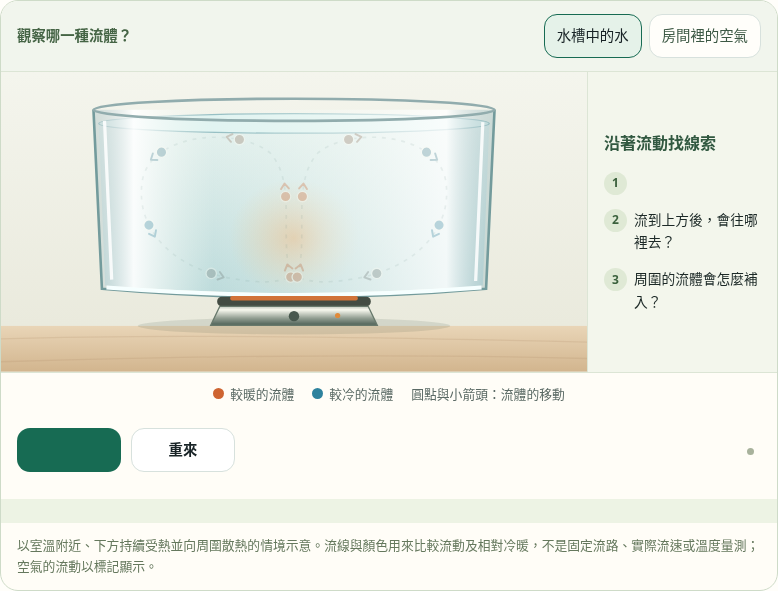
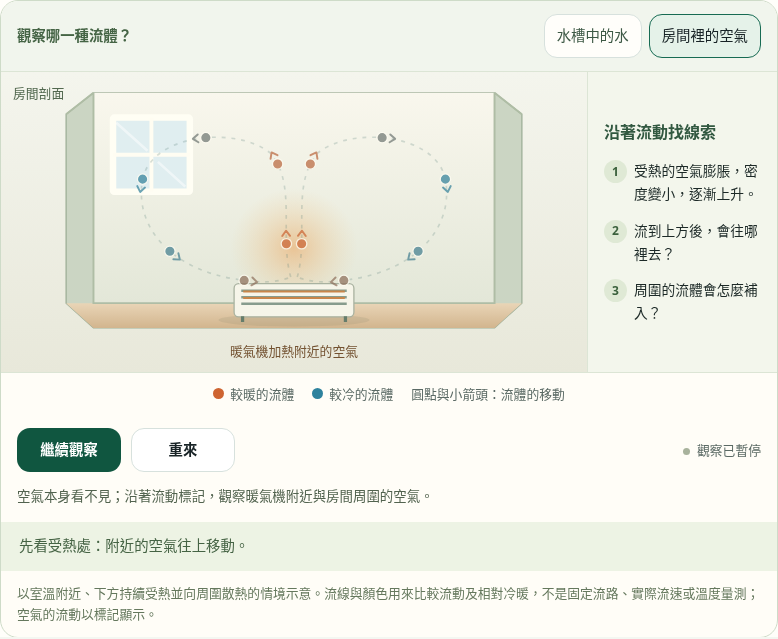
fix(unit-5.2): 保持暫停後對流文字可見並補實際版面檢查

diff --git a/units/5/parts/5.2/assets/convection-lab.css b/units/5/parts/5.2/assets/convection-lab.css
@@ -1,4 +1,5 @@
 /* Fourth block: water and room sections share a qualitative flow overlay. */
+#card-04 .card-main{container-type:normal}
 #convection-lab{container:convection / inline-size;background:#fffdf7;border-color:#cedbc8}
 #convection-lab .panel-toolbar{justify-content:space-between;padding:13px 16px;background:#f1f5ed}
 .convection-workspace{display:grid;grid-template-columns:minmax(0,1fr) 190px;gap:0}

diff --git a/docs/reviews/unit-5.2-convection-20261105/review.md b/docs/reviews/unit-5.2-convection-20261105/review.md
@@ -1,6 +1,6 @@
 # 5.2 第四區對流精修檢查
 
-2026-11-05。承接格式提交ad245f86；[決策](../../decisions/unit-5.2-convection.md)。製作範圍為第四區，不是全單元最終驗收。
+2026-11-05。承接格式提交9b0b879b；[決策](../../decisions/unit-5.2-convection.md)。製作範圍為第四區，不是全單元最終驗收。
 
 ## 教學鏈
 
@@ -14,9 +14,11 @@
 - 新瀏覽器套件9項（含runner）通過：初始狀態、兩側受熱處上升、同色鍵、持續流動、逐步說明／結語、暫停真實畫面、續看、切換清除、重來、鍵盤／背景／快速中斷、輻射／保溫／小測獨立性、七組視窗，以及一般／減少動態下的真實frame與觸控。
 - 既有5.2方向、熱平衡與導熱本輪36項通過（含runner）；合計四套45項。首次43通過／2失敗來自新測試選取`[data-medium=air]`同時命中容器與按鈕；將測試限定為button後，新套件9項全過，沒有移除或跳過任何檢查。見[first-run.txt](first-run.txt)、[retest.txt](retest.txt)。
 - 視窗1440×900、1366×768、1280×720、820×900、760×900、390×844、320×568均無水平溢出，按鈕44px以上，必要文字及場景可讀。未稱為實體手機或跨瀏覽器驗收。
-- [保留比對](preservation.json)：另外五個教學區與小測HTML與ad245f86逐字相同；共用JS僅移除已拆出的舊對流程式，其他模型／教材／素材未更動。
+- [保留比對](preservation.json)：另外五個教學區與小測HTML與9b0b879b逐字相同；共用JS僅移除已拆出的舊對流程式，其他模型／教材／素材未更動。
 
 格式修訂的七套75項證據見[格式檢查](../unit-5-format-20261105/review.md)，不將它們混為新第四區測試。測試及人工圖像檢視分開記；人工查看[水槽畫面](water.png)與[室內畫面](air.png)，確認箭頭可辨識、器材及文字未遮擋。公開部署／檔案一致性發布後補記。
+
+發布前人工截圖另發現Chromium巢狀inline-size容器使暫停後的動態文字偶爾未畫出。第四區改為只由實驗容器管理窄版配置，外層card-main不再重複建立inline-size容器；補查暫停後按鈕／狀態／觀察文字的實際Range寬高，並重跑第四區與兩頁14組最終走讀。下方截圖已換成修正後版本。
 
 ## 邊界與下一步
 

diff --git a/units/5/parts/5.2/assets/README.md b/units/5/parts/5.2/assets/README.md
@@ -188,7 +188,7 @@
 
 ## 2026-11-05：共通格式及第四區對流精修
 
-先依共通規格v1.1對齊5.1／5.2，格式提交`ad245f86`；再精修第四區。沿用「水與空氣自然對流」範圍，以原生SVG分別繪製透明水槽與暖氣機房間剖面，未替換核可的開場、前三區圖像或模型。流線與圓點顯示流體運動，圓點色彩表示相對冷暖；不用分成「左邊永遠熱、右邊永遠冷」的兩種粒子，也不將圓點稱為熱粒子。箭頭沿流路移動。
+先依共通規格v1.1對齊5.1／5.2，格式提交`9b0b879b`；再精修第四區。沿用「水與空氣自然對流」範圍，以原生SVG分別繪製透明水槽與暖氣機房間剖面，未替換核可的開場、前三區圖像或模型。流線與圓點顯示流體運動，圓點色彩表示相對冷暖；不用分成「左邊永遠熱、右邊永遠冷」的兩種粒子，也不將圓點稱為熱粒子。箭頭沿流路移動。
 
 `convection-lab.js`使用同一觀察時鐘控制流動與逐步文字；開始、暫停／續看、重來、切換媒介及背景中斷一致。結尾對話待看到循環後出現，重來／換媒介收起。減少動態仍低速移動，無聲音或外部依賴。這是定性教學示意，不是流體數值模擬或量測；不宣稱循環路線、速度或顏色為實測結果。模型條件限定室溫附近、下方加熱且向周圍散熱。
 
